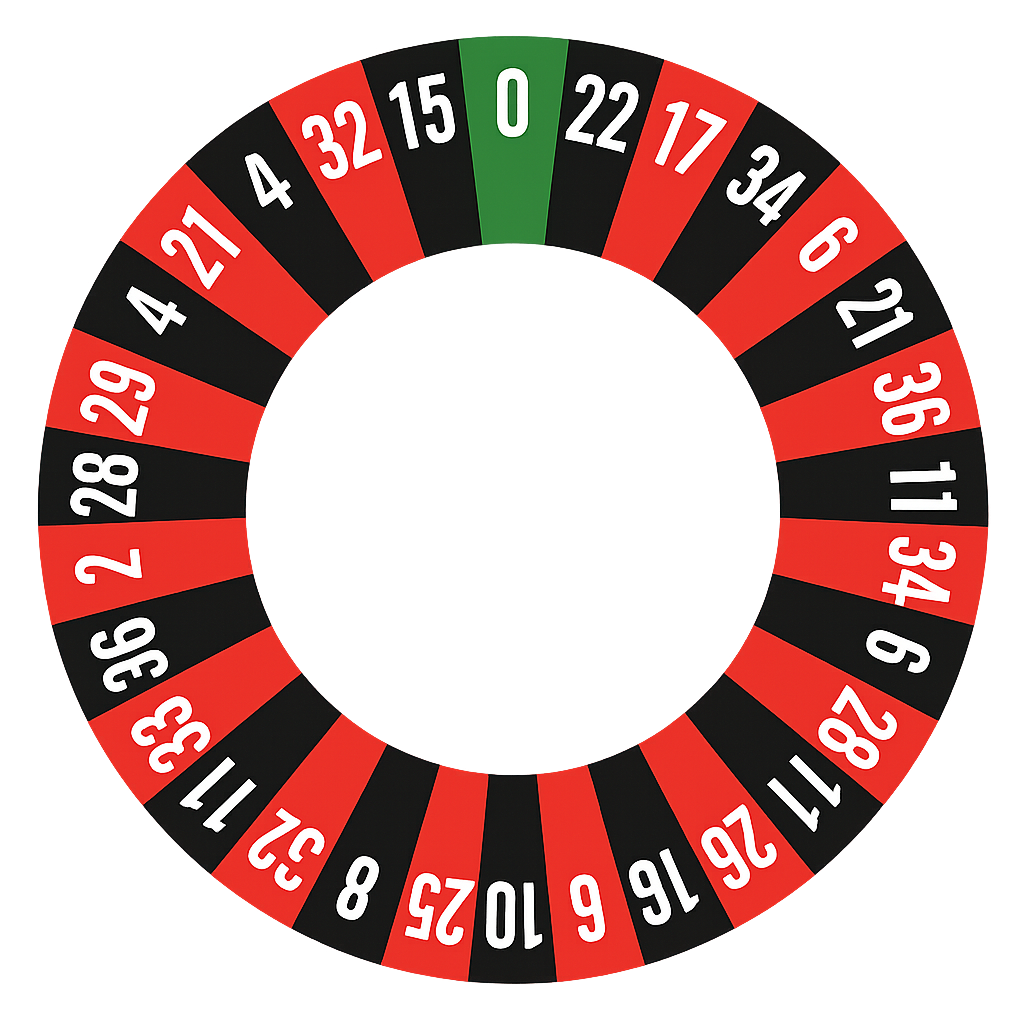
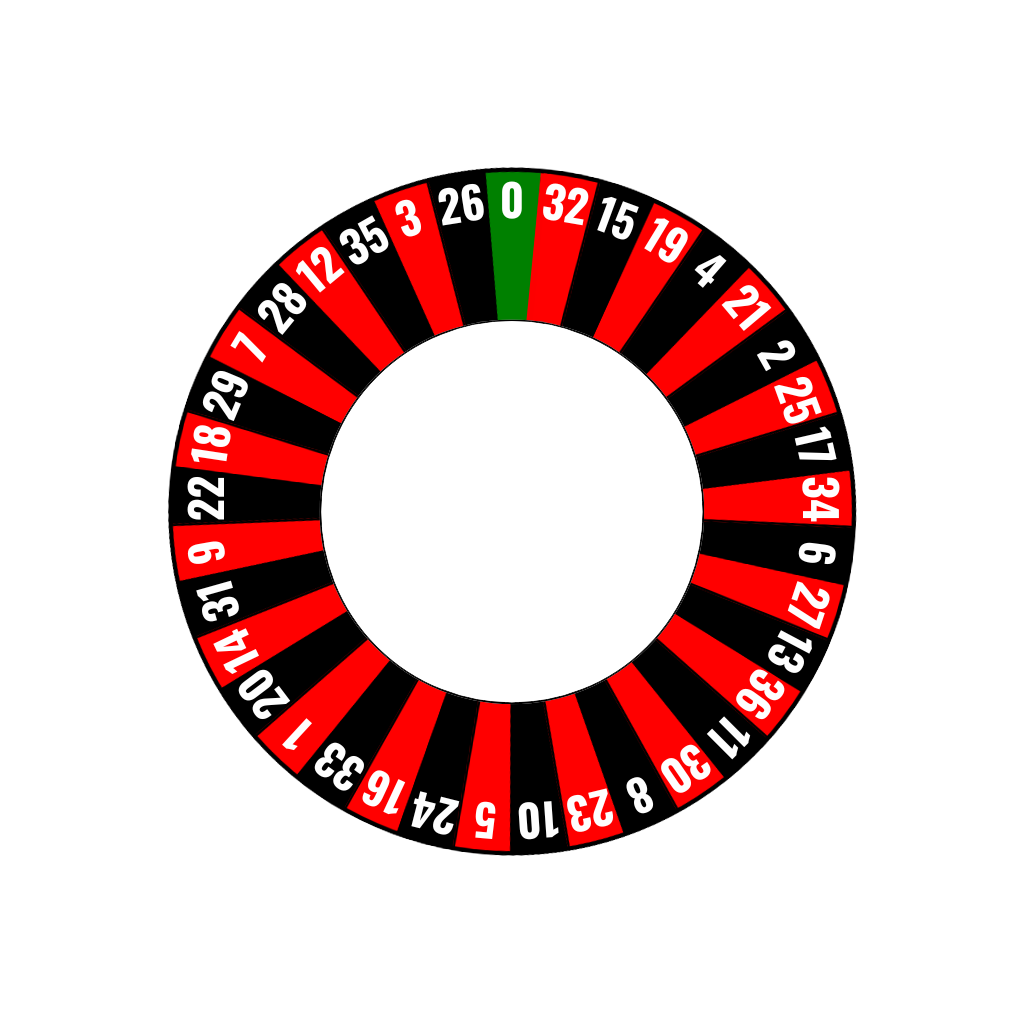
Ruleta funcional con resultado

diff --git a/frontend/main.js b/frontend/main.js
@@ -6,6 +6,7 @@ const resultado = document.getElementById("resultado");
 const mensajesDiv = document.getElementById("mensajes");
 const apuestaTotalSpan = document.getElementById("apuesta");
 const saldoSpan = document.getElementById("saldo");
+const mensajeSuperior = document.getElementById("mensaje-superior");
 
 const usuario = localStorage.getItem("usuarioRuleta");
 document.getElementById("usuario").textContent = usuario;
@@ -23,6 +24,26 @@ if (isNaN(saldo)) saldo = 5000;
 
 let apuestaTotal = 0;
 let historialApuestas = [];
+
+// Lista de números en el orden que aparecen en la ruleta
+const numerosRuleta = [
+  0, 32, 15, 19, 4, 21, 2, 25, 17, 34,
+  6, 27, 13, 36, 11, 30, 8, 23, 10, 5,
+  24, 16, 33, 1, 20, 14, 31, 9, 22, 18,
+  29, 7, 28, 12, 35, 3, 26
+];
+
+// 1. Definir sectores base con rangos angulares fijos
+const offset = 355; // Ajuste inicio real de la ruleta
+const sectoresBase = [];
+const totalNumeros = numerosRuleta.length;
+const anguloSector = 360 / totalNumeros;
+
+for (let i = 0; i < totalNumeros; i++) {
+  let desde = (offset + i * anguloSector) % 360;
+  let hasta = (offset + (i + 1) * anguloSector) % 360;
+  sectoresBase.push({ numero: numerosRuleta[i], desde, hasta });
+}
 
 function actualizarSaldoUI() {
   saldoSpan.textContent = `$${saldo.toLocaleString()}`;
@@ -70,9 +91,8 @@ function iniciarMQTT() {
           const anguloFinal = Math.floor(Math.random() * 360);
           const angulo = (vueltas * 360) + anguloFinal;
 
-          ruleta.style.transition = "transform 4.5s cubic-bezier(0.33, 1, 0.68, 1)"; // tipo easeOutCirc
+          ruleta.style.transition = "transform 4.5s cubic-bezier(0.33, 1, 0.68, 1)"; // easeOutCirc
           ruleta.style.transform = `rotate(${angulo}deg)`;
-
 
           const tiempoRestante = () => {
             const ahora = Date.now();
@@ -254,6 +274,90 @@ document.addEventListener("DOMContentLoaded", () => {
     anguloOrbita -= anguloBola; // gira en sentido contrario a la ruleta
     orbita.style.transition = "transform 4s cubic-bezier(0.33, 1, 0.68, 1)";
     orbita.style.transform = `rotate(${anguloOrbita}deg)`;
+  });
+
+  // Función para obtener ángulo de rotación desde el transform CSS
+  function obtenerAnguloDeRotacion(elemento) {
+    const estilo = window.getComputedStyle(elemento);
+    const transform = estilo.transform || estilo.webkitTransform;
+
+    if (transform && transform !== "none") {
+      const valores = transform.match(/matrix\(([^)]+)\)/);
+      if (!valores) return 0;
+      const partes = valores[1].split(",");
+      const a = parseFloat(partes[0]);
+      const b = parseFloat(partes[1]);
+      let angulo = Math.round(Math.atan2(b, a) * (180 / Math.PI));
+      if (angulo < 0) angulo += 360;
+      return angulo;
+    }
+    return 0;
+  }
+
+  // Función para ajustar sector con rotación actual de la ruleta
+  function sectorConRotacion(sector, rotacion) {
+    return {
+      numero: sector.numero,
+      desde: (sector.desde + rotacion) % 360,
+      hasta: (sector.hasta + rotacion) % 360
+    };
+  }
+
+  // Función para encontrar número ganador comparando ángulo bola con sectores rotados
+  function encontrarNumeroGanador(anguloBola, sectores, rotacionRuleta) {
+    for (const sector of sectores) {
+      const sectorRot = sectorConRotacion(sector, rotacionRuleta);
+      if (sectorRot.desde > sectorRot.hasta) {
+        // Sector cruza 0 grados
+        if (anguloBola >= sectorRot.desde || anguloBola <= sectorRot.hasta) {
+          return sectorRot.numero;
+        }
+      } else {
+        if (anguloBola >= sectorRot.desde && anguloBola <= sectorRot.hasta) {
+          return sectorRot.numero;
+        }
+      }
+    }
+    return null;
+  }
+
+  // Detectar número ganador al terminar la animación
+  function detectarNumeroGanador() {
+    const ruleta = document.getElementById("ruleta");
+    const orbita = document.getElementById("orbita-bola");
+
+    const anguloRuleta = obtenerAnguloDeRotacion(ruleta);
+    const anguloBola = obtenerAnguloDeRotacion(orbita);
+
+    const numeroGanador = encontrarNumeroGanador(anguloBola, sectoresBase, anguloRuleta);
+
+    console.log('Ángulo ruleta:', anguloRuleta);
+    console.log('Ángulo bola:', anguloBola);
+    console.log('Número ganador:', numeroGanador);
+
+    if (client && client.connected) {
+      client.publish("ruleta/ganador", JSON.stringify({ numeroGanador }));
+    }
+
+    // Mostrar mensaje arriba de la tabla de apuestas
+    mensajeSuperior.textContent = `🎯 Número ganador: ${numeroGanador}`;
+
+    // Opcional: borrar mensaje después de 5 segundos
+    setTimeout(() => {
+      mensajeSuperior.textContent = "";
+    }, 5000);
+  }
+
+  // Escuchar cuando termina la animación de ruleta y bola
+  const ruleta = document.getElementById("ruleta");
+  const orbita = document.getElementById("orbita-bola");
+
+  ruleta.addEventListener("transitionend", () => {
+    detectarNumeroGanador();
+  });
+
+  orbita.addEventListener("transitionend", () => {
+    detectarNumeroGanador();
   });
 
   // Enviar mensaje

diff --git a/frontend/ruleta.html b/frontend/ruleta.html
@@ -30,43 +30,48 @@
       </div>
     </div>
 
-    <!-- 📋 Mesa de apuestas -->
-    <div class="tabla-apuestas">
-      <div class="columna-cero">
-        <div class="celda verde largo">0</div>
-      </div>
-      <div class="numeros">
-        <div class="fila">
-          <div class="celda rojo">3</div><div class="celda negro">6</div><div class="celda rojo">9</div>
-          <div class="celda negro">12</div><div class="celda rojo">15</div><div class="celda negro">18</div>
-          <div class="celda rojo">21</div><div class="celda negro">24</div><div class="celda rojo">27</div>
-          <div class="celda negro">30</div><div class="celda rojo">33</div><div class="celda negro">36</div>
-          <div class="celda apuesta">2to1</div>
+    <div class="mesa-derecha">
+      <!-- Mensaje arriba de la tabla -->
+      <div id="mensaje-superior">⏳ Esperando apuestas de los jugadores...</div>
+      <!-- 📋 Mesa de apuestas -->
+      <div class="tabla-apuestas">
+        <div class="columna-cero">
+          <div class="celda verde largo">0</div>
         </div>
-        <div class="fila">
-          <div class="celda negro">2</div><div class="celda rojo">5</div><div class="celda negro">8</div>
-          <div class="celda rojo">11</div><div class="celda negro">14</div><div class="celda rojo">17</div>
-          <div class="celda negro">20</div><div class="celda rojo">23</div><div class="celda negro">26</div>
-          <div class="celda rojo">29</div><div class="celda negro">32</div><div class="celda rojo">35</div>
-          <div class="celda apuesta">2to1</div>
-        </div>
-        <div class="fila">
-          <div class="celda rojo">1</div><div class="celda negro">4</div><div class="celda rojo">7</div>
-          <div class="celda negro">10</div><div class="celda rojo">13</div><div class="celda negro">16</div>
-          <div class="celda rojo">19</div><div class="celda negro">22</div><div class="celda rojo">25</div>
-          <div class="celda negro">28</div><div class="celda rojo">31</div><div class="celda negro">34</div>
-          <div class="celda apuesta">2to1</div>
-        </div>
-        <div class="fila">
-          <div class="celda apuesta doble">1–18</div>
-          <div class="celda apuesta doble">Par</div>
-          <div class="celda apuesta doble rojo"></div>
-          <div class="celda apuesta doble negro"></div>
-          <div class="celda apuesta doble">Impar</div>
-          <div class="celda apuesta doble">19–36</div>
+        <div class="numeros">
+          <div class="fila">
+            <div class="celda rojo">3</div><div class="celda negro">6</div><div class="celda rojo">9</div>
+            <div class="celda rojo">12</div><div class="celda negro">15</div><div class="celda rojo">18</div>
+            <div class="celda rojo">21</div><div class="celda negro">24</div><div class="celda rojo">27</div>
+            <div class="celda rojo">30</div><div class="celda negro">33</div><div class="celda rojo">36</div>
+            <div class="celda apuesta">2to1</div>
+          </div>
+          <div class="fila">
+            <div class="celda negro">2</div><div class="celda rojo">5</div><div class="celda negro">8</div>
+            <div class="celda negro">11</div><div class="celda rojo">14</div><div class="celda negro">17</div>
+            <div class="celda negro">20</div><div class="celda rojo">23</div><div class="celda negro">26</div>
+            <div class="celda negro">29</div><div class="celda rojo">32</div><div class="celda negro">35</div>
+            <div class="celda apuesta">2to1</div>
+          </div>
+          <div class="fila">
+            <div class="celda rojo">1</div><div class="celda negro">4</div><div class="celda rojo">7</div>
+            <div class="celda negro">10</div><div class="celda negro">13</div><div class="celda rojo">16</div>
+            <div class="celda rojo">19</div><div class="celda negro">22</div><div class="celda rojo">25</div>
+            <div class="celda negro">28</div><div class="celda negro">31</div><div class="celda rojo">34</div>
+            <div class="celda apuesta">2to1</div>
+          </div>
+          <div class="fila">
+            <div class="celda apuesta doble">1–18</div>
+            <div class="celda apuesta doble">Par</div>
+            <div class="celda apuesta doble rojo"></div>
+            <div class="celda apuesta doble negro"></div>
+            <div class="celda apuesta doble">Impar</div>
+            <div class="celda apuesta doble">19–36</div>
+          </div>
         </div>
       </div>
     </div>
+    
   </div>
 
   <!-- 🔻 Zona inferior -->

diff --git a/frontend/css/ruleta.css b/frontend/css/ruleta.css
@@ -56,8 +56,8 @@ body {
   position: absolute;
   top: 50%;
   left: 50%;
-  width: 100%;
-  height: 100%;
+  width: 140%;
+  height: 140%;
   background-image: url("../img/ruleta-sectores.png");
   background-size: contain;
   background-repeat: no-repeat;
@@ -89,46 +89,19 @@ body {
   z-index: 2;
 }
 
-.ruleta-circulo {
-  position: absolute;
-  top: 50%;
-  left: 50%;
-  width: 100%;
-  height: 100%;
-  transform: translate(-50%, -50%);
-  border-radius: 50%;
-  z-index: 1;
-
-  background-image: url("../img/ruleta-sectores.png"); /* <-- usa la imagen que creaste */
-  background-size: contain;
-  background-repeat: no-repeat;
-  background-position: center;
-}
-
 .orbita-bola {
   position: absolute;
-  width: 100%;
-  height: 100%;
-  top: 0;
-  left: 0;
+  width: 80%;   
+  height: 80%;   
+  top: 10%;     
+  left: 10%;    
   transform-origin: center center;
   z-index: 4;
 }
 
 .bola {
   position: absolute;
-  top: 0;
-  left: 50%;
-  width: 18px;
-  height: 18px;
-  background: white;
-  border-radius: 50%;
-  transform: translateX(-50%);
-}
-
-.bola {
-  position: absolute;
-  top: 15px; 
+  top: 15px;
   left: 50%;
   width: 18px;
   height: 18px;
@@ -139,6 +112,33 @@ body {
   transform-origin: center center;
   z-index: 4;
 }
+
+.mesa-derecha {
+  display: flex;
+  flex-direction: column;
+  justify-content: center; /* Empieza arriba */
+  gap: 20px; /* Espacio entre mensaje y tabla */
+  max-height: 100%; /* o el alto que quieras, ajustable */
+  overflow-y: auto; /* Para scroll si la tabla es muy alta */
+  max-width: 1000px; /* Ajusta al ancho deseado */
+  box-sizing: border-box;
+}
+
+
+#mensaje-superior {
+  color: white;
+  font-family: 'Segoe UI', Tahoma, Geneva, Verdana, sans-serif;
+  font-weight: 600;
+  font-size: 1.25rem;
+  background-color: rgba(0, 0, 0, 0.6);
+  padding: 8px 12px;
+  border-radius: 8px;
+  margin-bottom: 12px;
+  text-align: center;
+  min-height: 1.8em;
+  box-shadow: 0 2px 6px rgba(0, 0, 0, 0.4);
+}
+
 
 /* TABLA DE APUESTAS */
 .tabla-apuestas {
